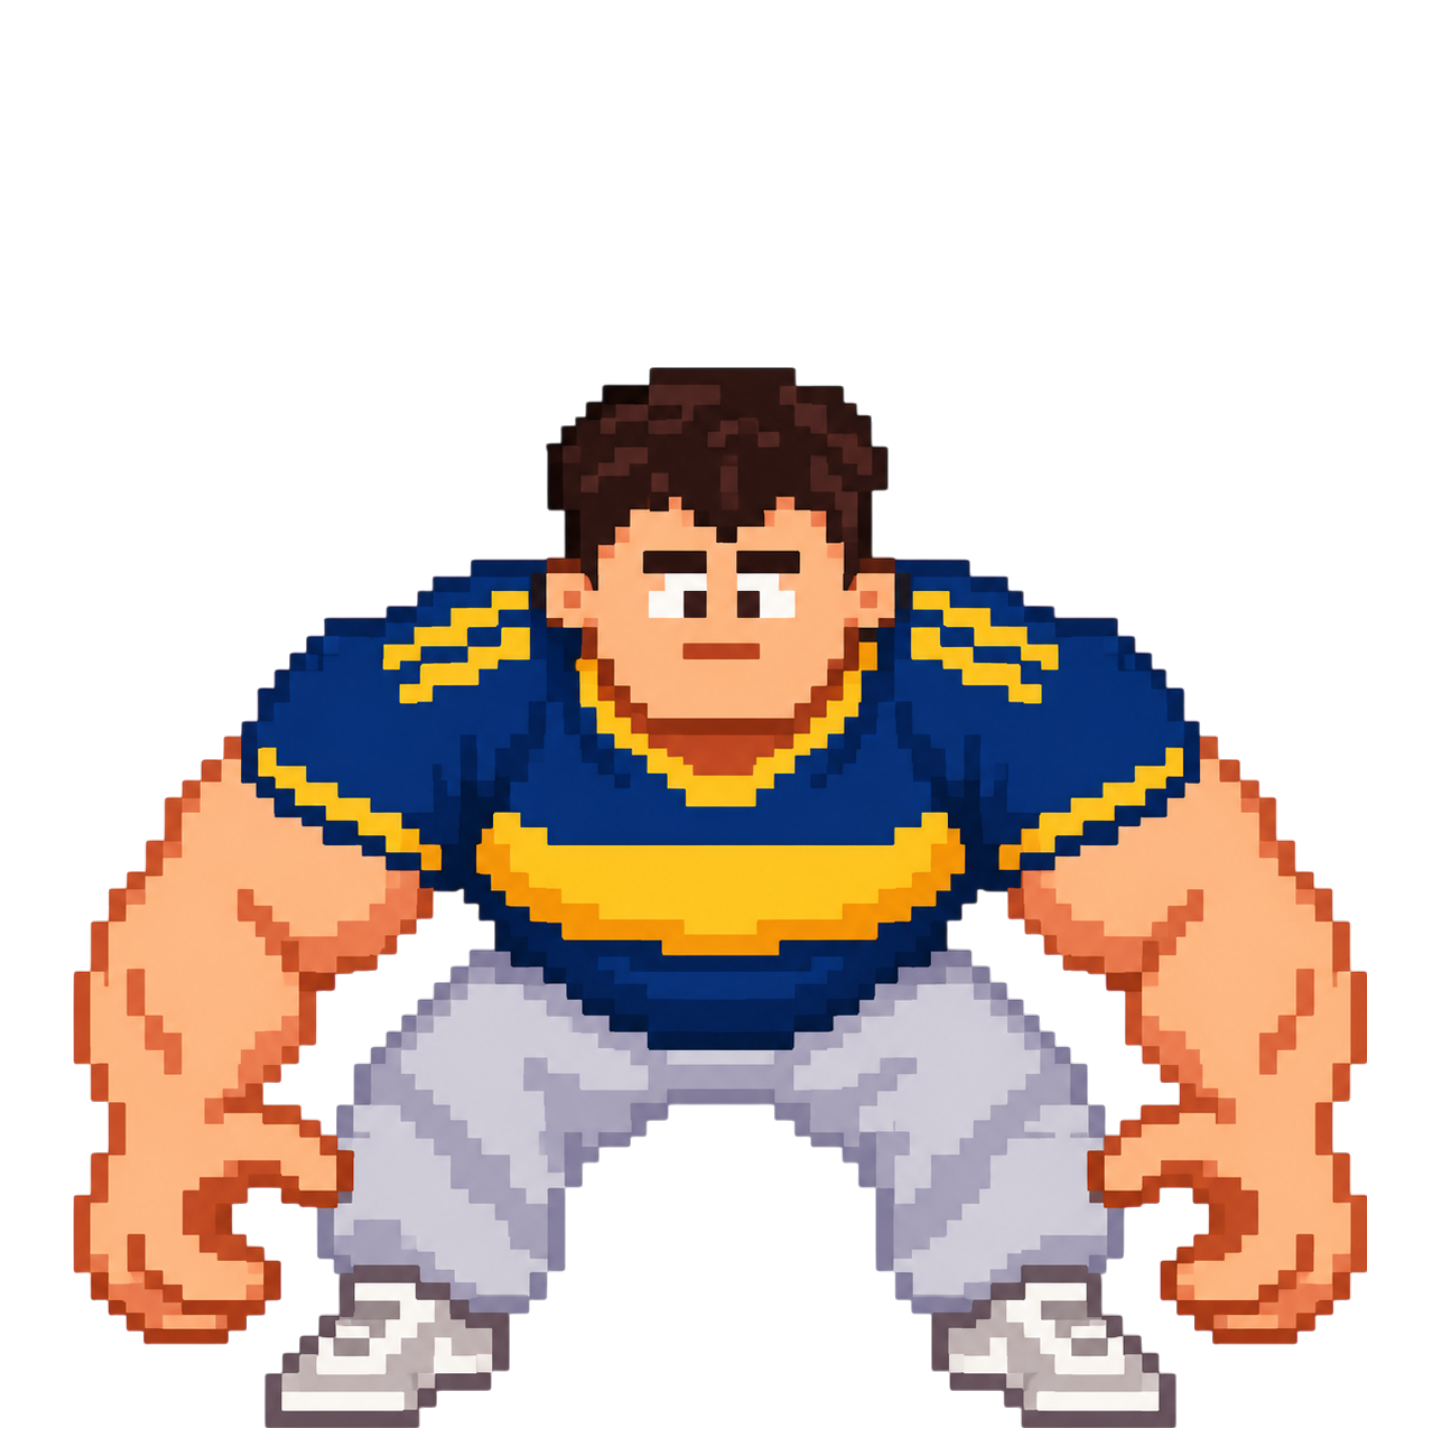
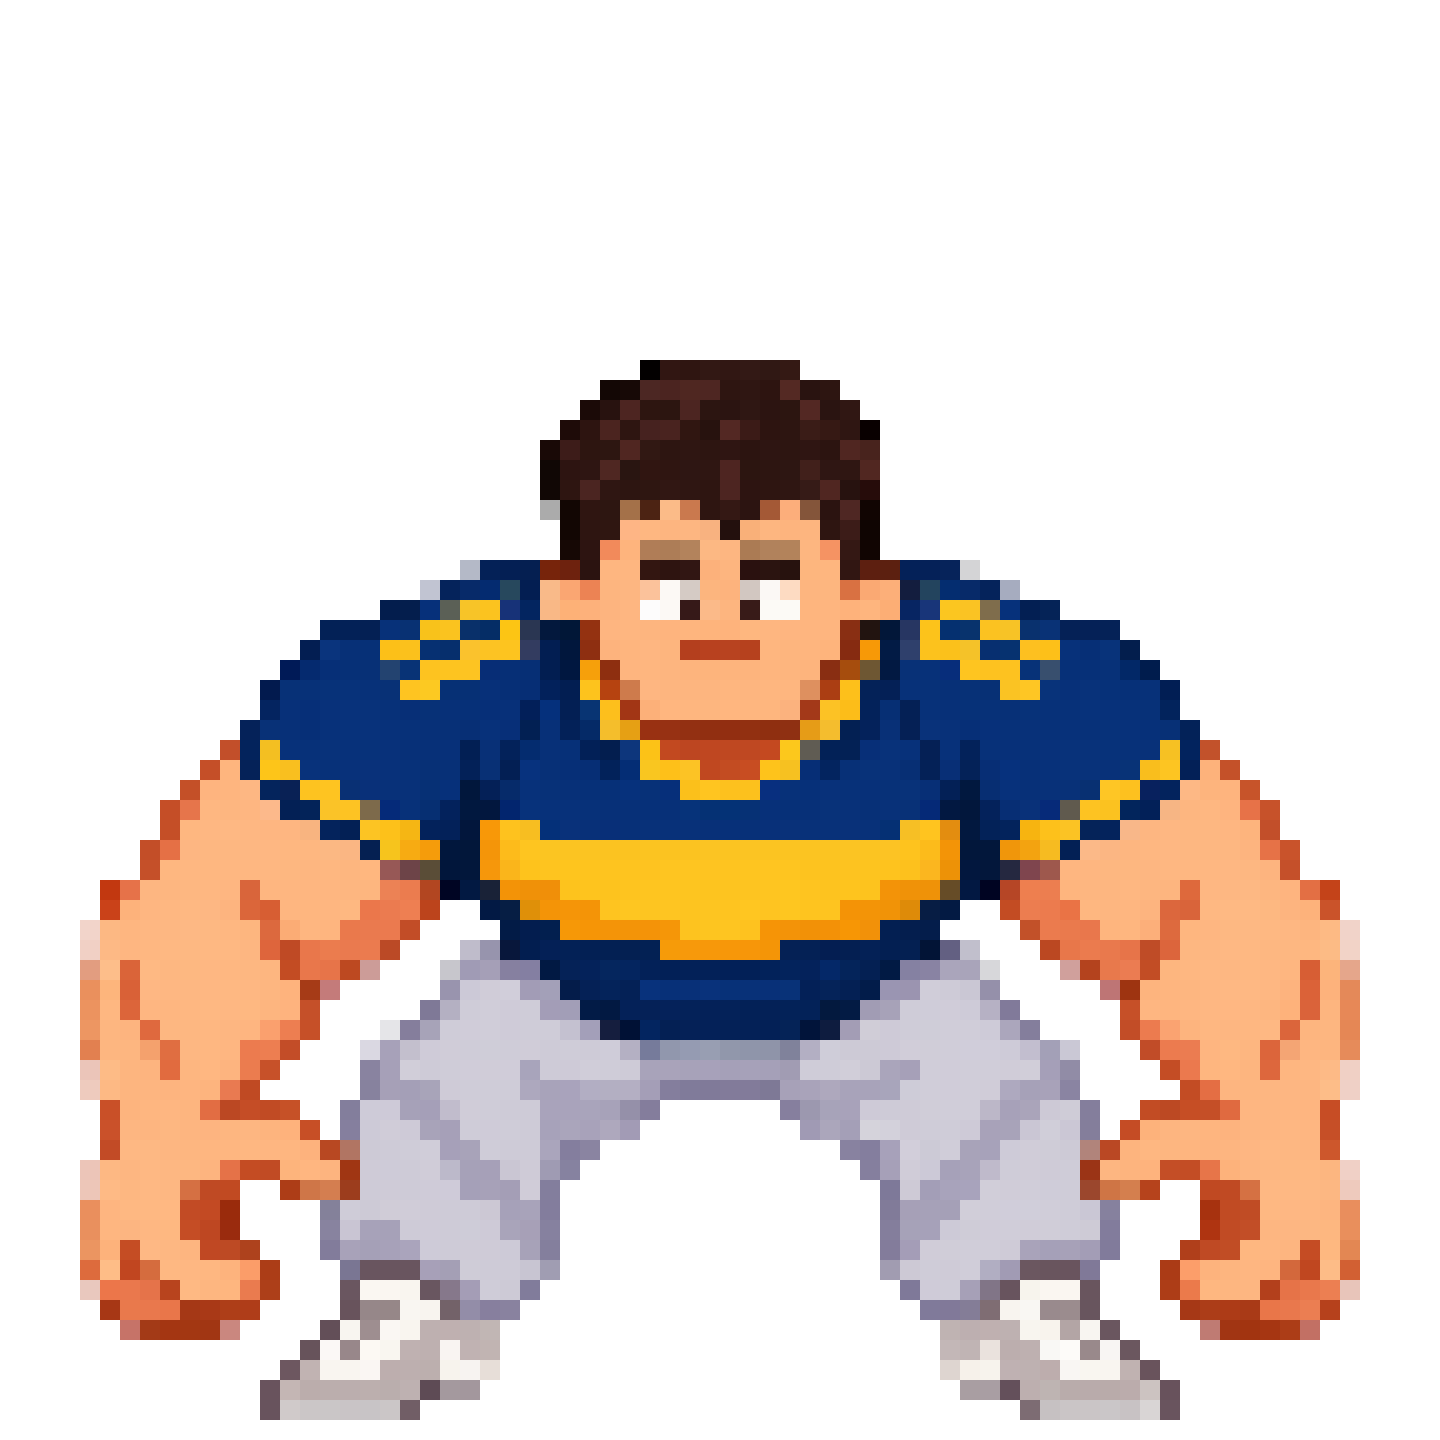
feat(donkeykong): ajustar ritmo de lanzamiento, pixelar sprites y acelerar Mario

Changed region(s): [[0.0312, 0.25, 0.9688, 1.0], [0.3438, 0.75, 0.375, 0.7812]]

diff --git a/PythonDonkeyKong/main.py b/PythonDonkeyKong/main.py
@@ -40,9 +40,9 @@ section_width = window_width // 32
 section_height = window_height // 32
 slope = section_height // 8
 
-barrel_spawn_time = 100
-barrel_count = barrel_spawn_time / 2
-barrel_time = 100
+barrel_spawn_time = 150
+barrel_count = barrel_spawn_time // 2
+barrel_time = 150
 barrel_img = pygame.transform.scale(pygame.image.load('assets/images/barrels/barrel.png'),
                                     (section_width * 1.5, section_height * 2))
 flames_img = pygame.transform.scale(pygame.image.load('assets/images/fire.png'),
@@ -147,7 +147,7 @@ class Player(pygame.sprite.Sprite):
     def __init__(self, x_pos, y_pos):
         pygame.sprite.Sprite.__init__(self)
         self.y_change = 0
-        self.x_speed = 1
+        self.x_speed = 2
         self.x_change = 0
         self.landed = False
         self.pos = 0
@@ -733,8 +733,8 @@ def reset():
     player.kill()
     player = Player(250, window_height - 130)
     first_fireball_trigger = False
-    barrel_spawn_time = 100
-    barrel_count = barrel_spawn_time / 2
+    barrel_spawn_time = 150
+    barrel_count = barrel_spawn_time // 2
     victory = False
 
 
@@ -833,12 +833,12 @@ while run:
                     pass
             if event.key in (pygame.K_UP, pygame.K_w):
                 if climb:
-                    player.y_change = -2
+                    player.y_change = -3
                     player.x_change = 0
                     player.climbing = True
             if event.key in (pygame.K_DOWN, pygame.K_s):
                 if down:
-                    player.y_change = 2
+                    player.y_change = 3
                     player.x_change = 0
                     player.climbing = True
         if event.type == pygame.JOYBUTTONDOWN:
@@ -863,11 +863,11 @@ while run:
             else:
                 player.x_change = 0
             if hy > 0 and climb:
-                player.y_change = -2
+                player.y_change = -3
                 player.x_change = 0
                 player.climbing = True
             elif hy < 0 and down:
-                player.y_change = 2
+                player.y_change = 3
                 player.x_change = 0
                 player.climbing = True
             elif hy == 0:
@@ -887,11 +887,11 @@ while run:
                     player.x_change = 0
             elif event.axis == 1:
                 if event.value < -0.4 and climb:
-                    player.y_change = -2
+                    player.y_change = -3
                     player.x_change = 0
                     player.climbing = True
                 elif event.value > 0.4 and down:
-                    player.y_change = 2
+                    player.y_change = 3
                     player.x_change = 0
                     player.climbing = True
                 elif abs(event.value) < 0.2:
